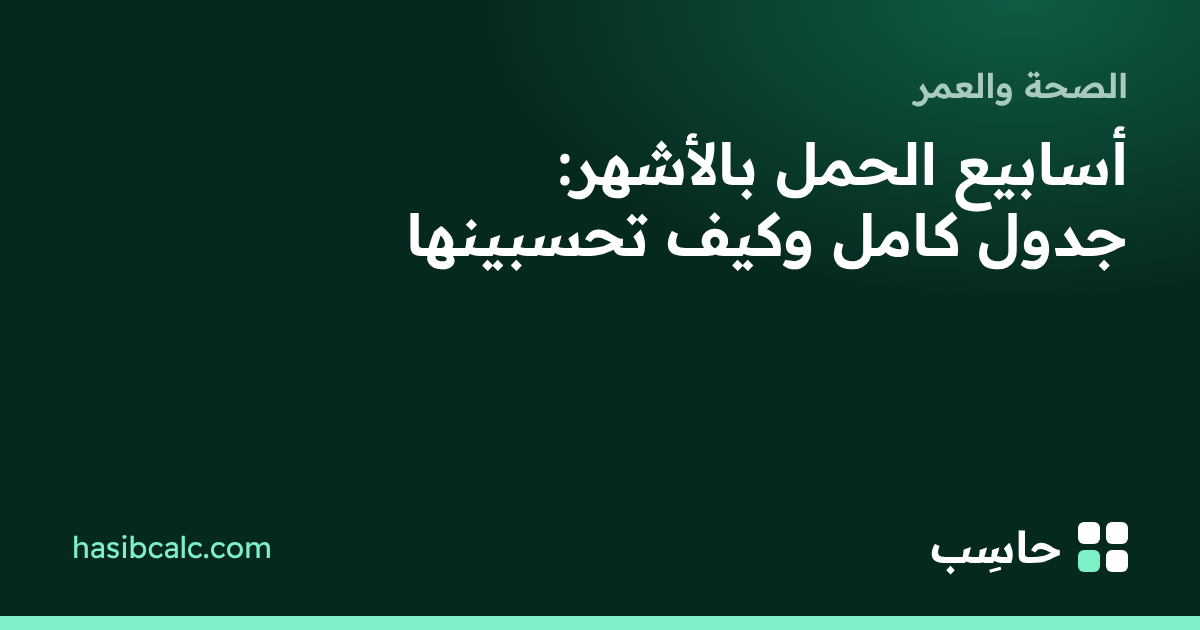
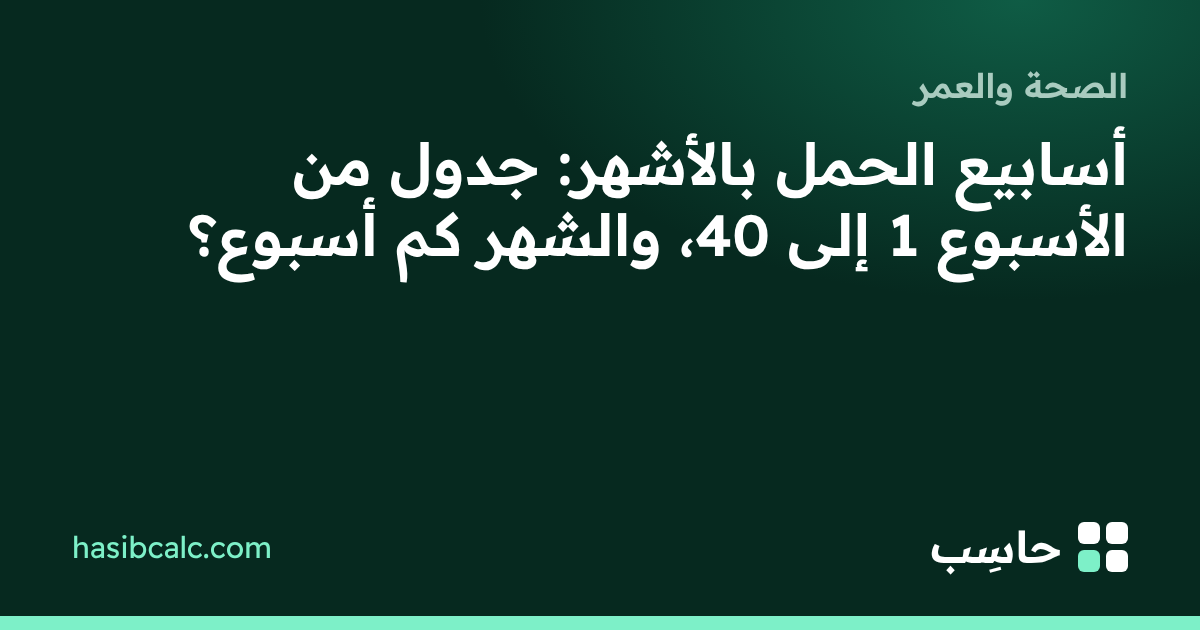
Strengthen pregnancy weeks/months guide for its search queries: short answer (a month ≈ 4.3 weeks, 40 weeks = 280 days), week→month converter, week-by-week table 1–42, FAQ; FAQ on /pregnancy/
Claude-Session: https://claude.ai/code/session_01KKyL8svfUUTjcLXAGNStGe

Changed region(s): [[0.1542, 0.2111, 0.9558, 0.4524]]

diff --git a/src/data/guides.ts b/src/data/guides.ts
@@ -10,7 +10,7 @@ export const GUIDES: Guide[] = [
   { slug: 'flat-vs-reducing-interest', title: 'الفرق بين الفائدة الثابتة والمتناقصة: أيهما أرخص لقرضك؟ مثال محسوب', description: 'لماذا تبدو الفائدة الثابتة 4.5% أرخص وهي ليست كذلك؟ مقارنة محسوبة بين الفائدة الثابتة والمتناقصة على قرض 100,000 درهم.', calc: 'loan', date: '2026-10-21', updated: '2026-10-25', minutes: 5, kicker: 'المال والعمل' },
   { slug: 'vat-gulf-guide', title: 'ضريبة القيمة المضافة في الخليج: النسب وطريقة الحساب', description: 'نسب ضريبة القيمة المضافة في الإمارات والسعودية والبحرين وعُمان، وكيف تضيف الضريبة إلى السعر أو تستخرجها من سعر شامل.', calc: 'vat', date: '2026-10-21', minutes: 4, kicker: 'التسوق والنسب' },
   { slug: 'zakat-step-by-step', title: 'كيف أحسب زكاة مالي؟ خطوة بخطوة مع مثال', description: 'طريقة حساب زكاة المال: النصاب بالذهب، والحول، وما يدخل في الحساب وما يُخصم، مع مثال محسوب بربع العشر.', calc: 'zakat', date: '2026-10-21', minutes: 5, kicker: 'المال والعمل' },
-  { slug: 'pregnancy-weeks-months', title: 'أسابيع الحمل بالأشهر: جدول كامل وكيف تحسبينها', description: 'جدول يحوّل أسابيع الحمل إلى أشهر، وكيف يُحسب عمر الحمل من آخر دورة، ومتى يبدأ كل ثلث من أثلاث الحمل.', calc: 'pregnancy', date: '2026-10-21', minutes: 4, kicker: 'الصحة والعمر' },
+  { slug: 'pregnancy-weeks-months', title: 'أسابيع الحمل بالأشهر: جدول من الأسبوع 1 إلى 40، والشهر كم أسبوع؟', description: 'كم أسبوعاً في شهر الحمل، وفي أي شهر أنتِ حسب أسبوعك: جدول كامل يحوّل أسابيع الحمل إلى أشهر وأثلاث، مع محوّل سريع وأسئلة شائعة.', calc: 'pregnancy', date: '2026-10-21', updated: '2026-10-26', minutes: 5, kicker: 'الصحة والعمر' },
   { slug: 'ideal-weight-by-height', title: 'الوزن المثالي حسب الطول: جدول للبالغين', description: 'جدول الوزن الطبيعي لكل طول من 150 إلى 190 سم بحسب مؤشر كتلة الجسم، وكيف تحسبه لطولك، ومتى لا يكفي هذا المؤشر وحده.', calc: 'bmi', date: '2026-10-21', minutes: 4, kicker: 'الصحة والعمر' },
   { slug: 'how-to-calculate-percentage', title: 'طريقة حساب النسبة المئوية: ثلاث حالات بأمثلة', description: 'كيف تحسب نسبة من رقم، وكم يمثل رقم من آخر، ونسبة الزيادة أو النقص، مع أمثلة من الراتب والخصومات والدرجات.', calc: 'percentage', date: '2026-10-21', minutes: 4, kicker: 'التسوق والنسب' },
   { slug: 'age-in-hijri', title: 'كيف أحسب عمري بالهجري؟', description: 'لماذا يكون عمرك بالهجري أكبر من عمرك بالميلادي، وكيف تحسبه بدقة من تاريخ ميلادك، مع قاعدة سريعة للتقدير.', calc: 'hijri-age', date: '2026-10-21', updated: '2026-10-25', minutes: 3, kicker: 'التاريخ والوقت' },
